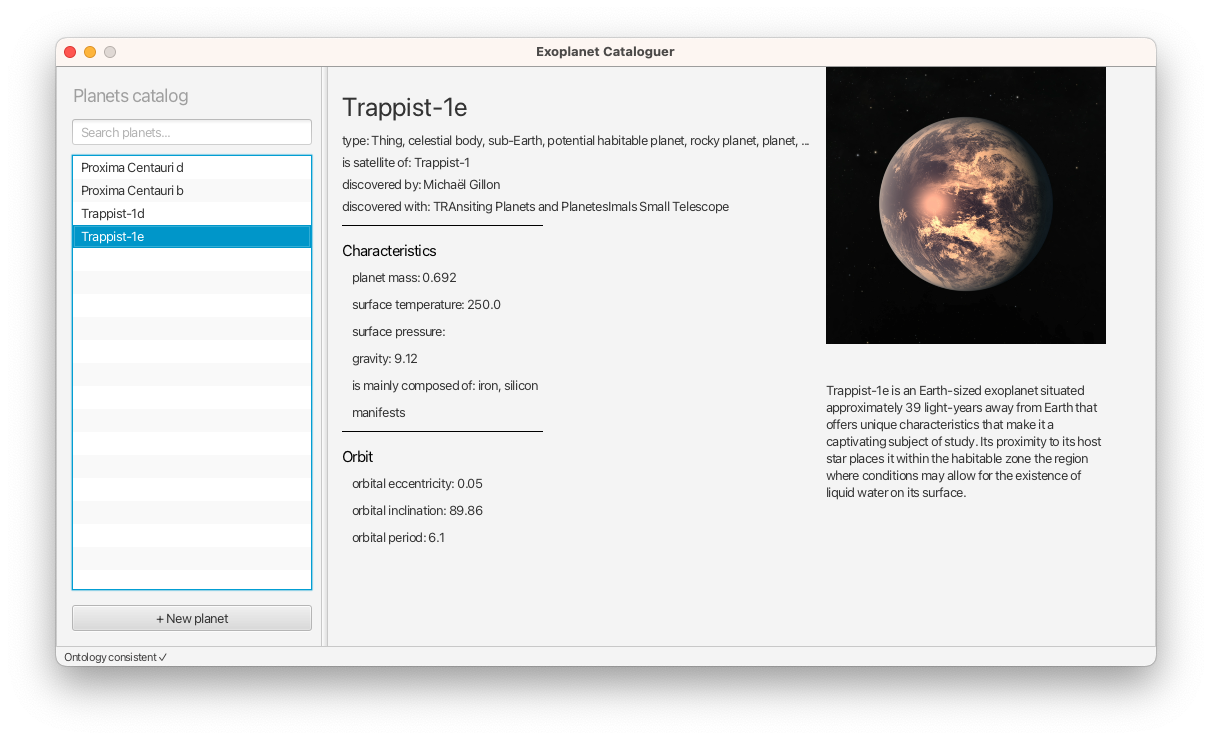
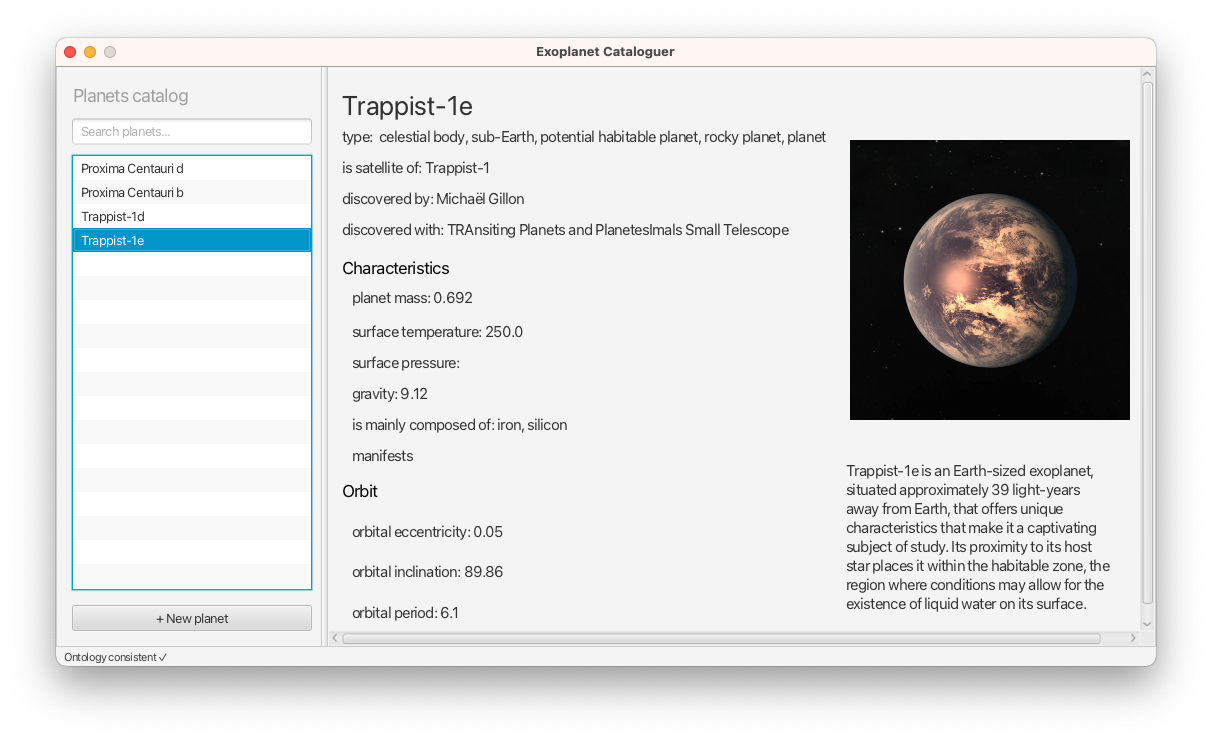
Improved UI organization

Changed region(s): [[0.2748, 0.0932, 0.9464, 0.8703], [0.0611, 0.2176, 0.2442, 0.3419], [0.0611, 0.1554, 0.1526, 0.1865]]

diff --git a/src/main/java/it/unicam/cs/mgc/exoplanetCataloguer/view/renders/PlanetDetailsRenderer.java b/src/main/java/it/unicam/cs/mgc/exoplanetCataloguer/view/renders/PlanetDetailsRenderer.java
@@ -7,35 +7,24 @@ import javafx.scene.Node;
 import javafx.scene.control.Label;
 import javafx.scene.image.Image;
 import javafx.scene.image.ImageView;
+import javafx.scene.layout.GridPane;
 import javafx.scene.layout.Pane;
 import javafx.scene.layout.VBox;
 
 /**
  * This class is used to render the details of a planet on the labels inside the specified pane
  */
-public class PlanetDetailsRenderer implements DataRenderer<Pane> {
+public class PlanetDetailsRenderer implements DataRenderer<GridPane> {
 
-    public void render(ParsedData data, Pane pane) {
+    public void render(ParsedData data, GridPane pane) {
         ObservableList<Node> planetDetails = pane.getChildren();
         for(Node node: planetDetails) {
-            if(node.getId().equals("planetImage")) {
-                this.renderPlanetImage(node, data.getProperty("image url"));
-            }
-            if(node.getId().equals("planetDetailLabels")) {
-                this.renderDataInVBox(node, data);
-            }
-            if(node.getId().equals("comment")) {
-                this.renderDataOnLabel(node, data);
-            }
-        }
-    }
-
-    private void renderDataInVBox(Node node, ParsedData data) {
-        VBox vbox = (VBox) node;
-        ObservableList<Node> labels = vbox.getChildren();
-        for(Node label: labels) {
-            if(label instanceof Label) {
-                this.renderDataOnLabel(label, data);
+            if(node instanceof Label || node instanceof ImageView) {
+                if(node.getId().equals("planetImage")) {
+                    this.renderPlanetImage(node, data.getProperty("image url"));
+                } else {
+                    this.renderDataOnLabel(node, data);
+                }
             }
         }
     }
@@ -48,6 +37,9 @@ public class PlanetDetailsRenderer implements DataRenderer<Pane> {
             if(propertyName.equals("label") || propertyName.equals("comment")) {
                 label.setText(property);
             } else {
+                if(propertyName.equals("type")) {
+                    property = StringFormatter.removeUselessTypes(property);
+                }
                 label.setText(propertyName + ": " + property);
             }
         }

diff --git a/src/main/java/it/unicam/cs/mgc/exoplanetCataloguer/model/util/StringFormatter.java b/src/main/java/it/unicam/cs/mgc/exoplanetCataloguer/model/util/StringFormatter.java
@@ -5,6 +5,15 @@ package it.unicam.cs.mgc.exoplanetCataloguer.model.util;
  */
 public class StringFormatter {
 
+    public static String removeUselessTypes(String input) {
+        input = input.replace("Thing,", "");
+        System.out.println("REMOVED " + input);
+        input = input.replace(", NamedIndividual", "");
+        System.out.println("REMOVED " + input);
+        return input;
+    }
+
+
     /**
      * Returns the resource of an URI
      * @param uri the complete URI to format
@@ -41,43 +50,5 @@ public class StringFormatter {
         return spacedString.toString();
     }
 
-    /**
-     * Converts any string to camelCase style
-     * @param input the string to convert
-     * @return the string in camel case style
-     */
-    public static String transformToCamelCase(String input) {
-        if (input == null || input.isEmpty()) return input;
-
-        StringBuilder camelCase = new StringBuilder();
-        boolean capitalizeNext = false;
-
-        for (char c : input.toCharArray()) {
-            if (Character.isWhitespace(c)) {
-                capitalizeNext = true;
-            } else if (capitalizeNext) {
-                camelCase.append(Character.toUpperCase(c));
-                capitalizeNext = false;
-            } else {
-                camelCase.append(Character.toLowerCase(c));
-            }
-        }
-
-        return camelCase.toString();
-    }
-
-    public static String removeNullValues(String input) {
-        String[] values = input.split(",\\s*");
-        StringBuilder result = new StringBuilder();
-
-        for (String value : values) {
-            if (value.trim().equalsIgnoreCase("null")) {
-                continue;
-            }
-            result.append(value.trim()).append(" ");
-        }
-
-        return result.toString().trim();
-    }
 }
 

diff --git a/src/main/java/it/unicam/cs/mgc/exoplanetCataloguer/model/JSONParser.java b/src/main/java/it/unicam/cs/mgc/exoplanetCataloguer/model/JSONParser.java
@@ -21,7 +21,7 @@ public class JSONParser implements DataParser {
         while(results.hasNext()) {
             QuerySolution result = results.nextSolution();
             String label = this.parseNodeToString(result.get("label"));
-            String value = StringFormatter.removeNullValues(this.parseNodeToString(result.get("value")));
+            String value = this.parseNodeToString(result.get("value"));
             // Concatenates multiple values of the same property
             if(data.containsKey(label)) {
                 data.put(label, data.get(label) + ", " + value);
